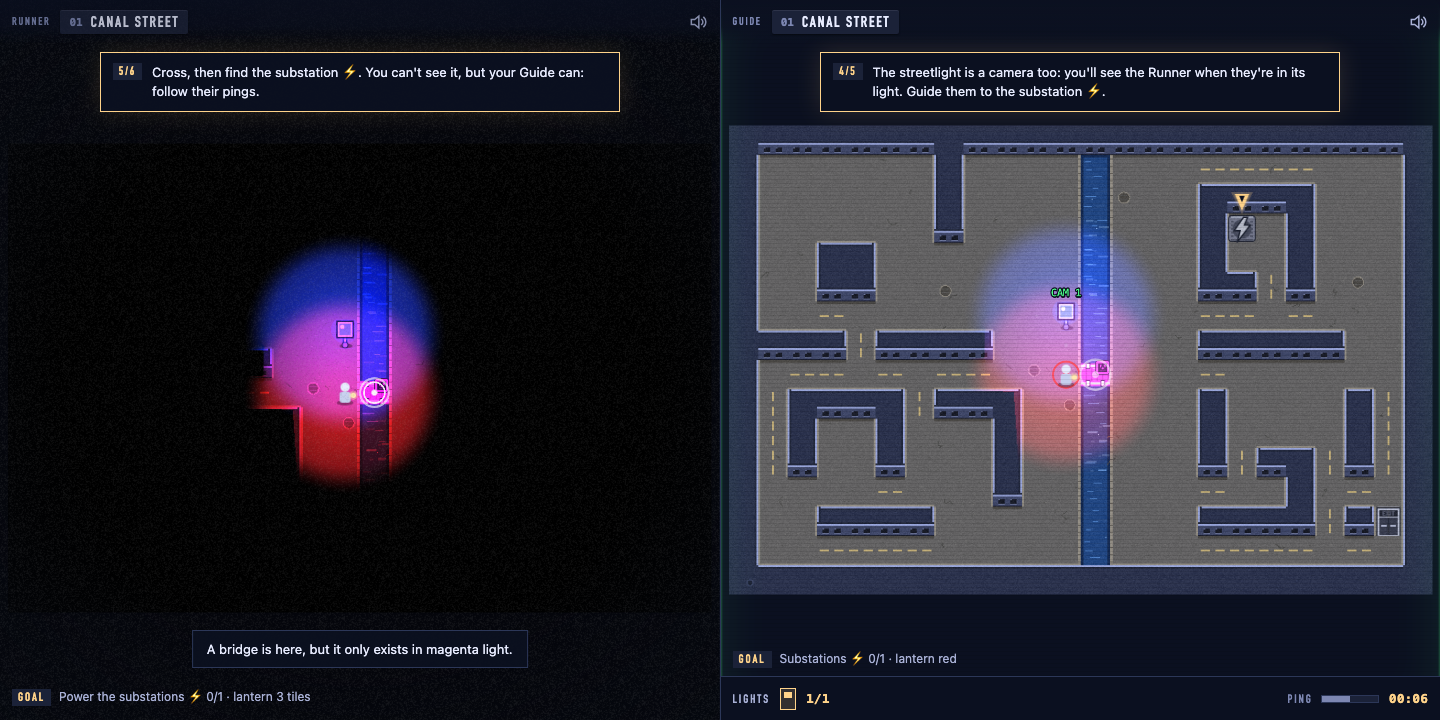
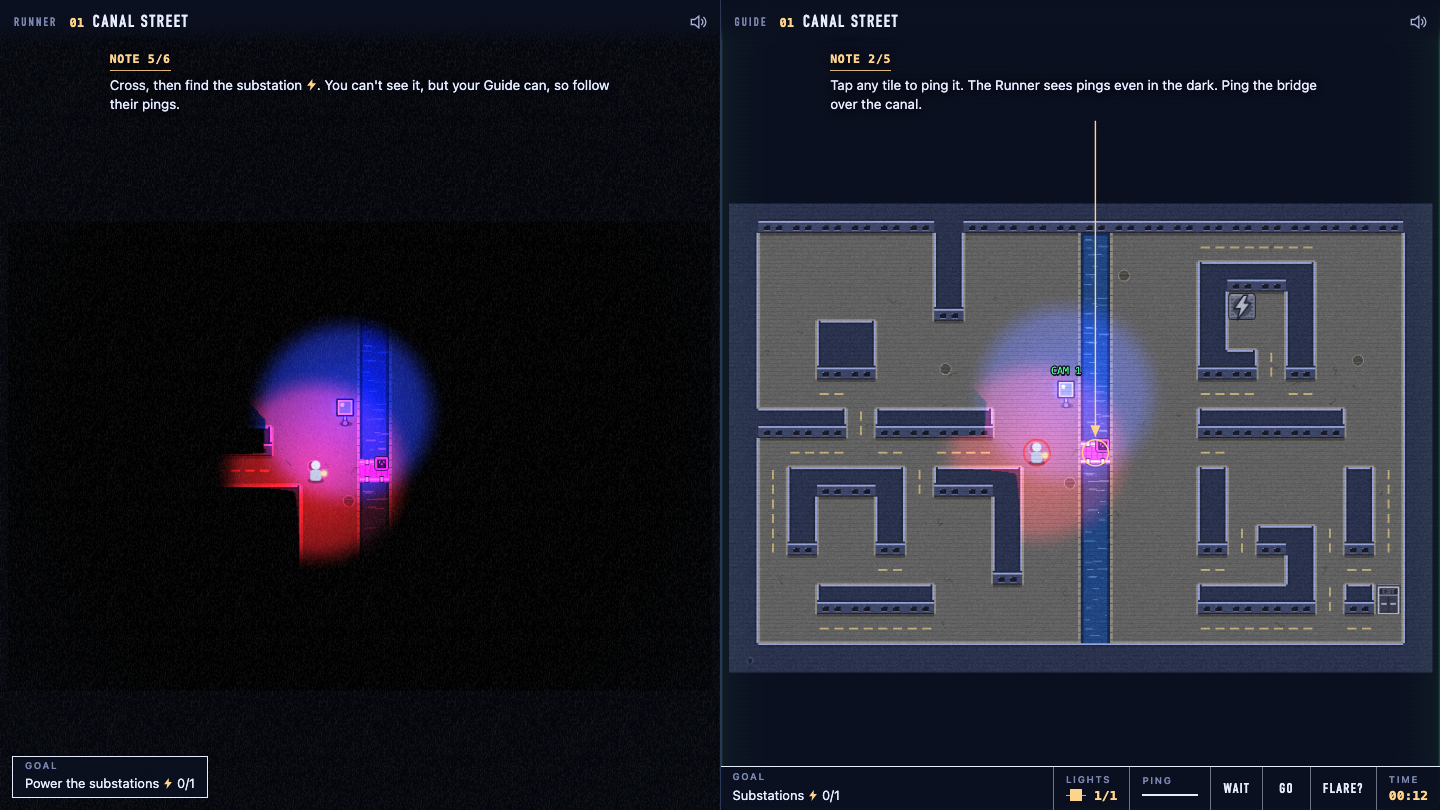
Document the Main Breaker, the signals and the new look
Assisted-By: Claude Opus 5.5

diff --git a/README.md b/README.md
@@ -27,7 +27,7 @@ Each substation the Runner reaches powers its block for good, moves the checkpoi
 
 ## The story
 
-The game opens in the field tech's dark bedroom with the phone ringing on the nightstand. Answer it, and dispatch apologises for the hour while the skyline in the window turns from white to red, green, and blue and goes out. After that, the story comes only from in-world records. Each district opens on a call from a resident who has noticed something strange, and closes on a line in the utility's log. When the last block comes back, the separated colors slide together into white across the city.
+The game opens in the field tech's dark bedroom with the phone ringing on the nightstand. Answer it, and dispatch apologises for the hour while the skyline in the window turns from white to red, green, and blue and goes out. After that, the story comes only from in-world records. Each district opens on a call from a resident who has noticed something strange, and closes on a line in the utility's log. After the last district, the main breaker won't stay closed. When the two players fix its rule, the separated colors slide together into white across the city.
 
 | District | The trick |
 |---|---|
@@ -36,6 +36,7 @@ The game opens in the field tech's dark bedroom with the phone ringing on the ni
 | 3 · Old Locks | only green streetlights, a long cyan bridge that needs two of them, and two glass colors to juggle |
 | 4 · Signal Yard | a red drone that no streetlight can show, so the Guide can only warn |
 | 5 · Grid Central | a yellow drone that only exists where the Runner's red meets a green streetlight, and a white door |
+| 6 · Main Breaker | the Guide rewrites the breaker's safety rule in CEL against three tests; only the Runner can read the gauges and turn the override key |
 
 ## How to play
 
@@ -52,6 +53,8 @@ No second device? Open [`?local=1`](https://overlap.richardsun.workers.dev/?loca
 | Ping | | tap any tile (2 s cooldown) |
 | Streetlight | | tap a streetlight to switch it (power budget shown as bars) |
 | Danger ping | | right-click a tile, or hold on a phone |
+| Signal | | Wait, Go and Flare? on the console, shown over the Runner's head |
+| Main Breaker | K turns the override key, Space pulls the lever | type the rule, then Install |
 
 District 1 is a tutorial. Each screen walks its player through their half of the game with numbered steps and a pointer over the tile to look at.
 
@@ -60,6 +63,12 @@ A drone touching the Runner sends them back to the last substation. If the Guide
 ## Theme
 
 "Visibility" is the mechanic itself, in both directions. The Runner sees only what light reaches. The Guide sees the city but sees the Runner only through light too, because every streetlight is a camera. Switching a streetlight on both reveals the street to the Runner and reveals the Runner to the Guide. What one player can see, the other can't, and progress needs both views combined. The closest prior art we know is *Hue* (2016), where objects vanish when they match the background color. In Overlap, two players each control one light color and mix them to reveal the level.
+
+## The look
+
+Every screen is drawn as a sheet of the city's wiring drawing. Tutorial steps are numbered notes with a leader line to the tile they mean, the goal and the Guide's console sit in title-block cells, the power budget is a row of breaker symbols, and the breaker room is a one-line diagram. The lit OVERLAP wordmark on the title is a sign that only shows where the two streetlights and your lantern fall.
+
+![Title sheet](docs/shots/title.png)
 
 ## How it's built
 
@@ -83,11 +92,12 @@ flowchart LR
 - **Server:** one Cloudflare Worker that serves the built client and routes `/room/CODE` to a SQLite-backed Durable Object per room. The Room does no game logic. It forwards messages to the other player and keeps the last snapshot, so a Guide who joins late (or reconnects) catches up.
 - **Two kinds of seeing, one function.** The gate logic, the solver, the Runner's view, and the Guide's cameras (`onCamera` in [`src/shared/level.ts`](src/shared/level.ts)) all read the same pure light field.
 - **Lighting is never sent over the wire.** Both clients compute the light field from shared state with the same pure function in [`src/shared/lighting.ts`](src/shared/lighting.ts). Messages go out only on change (a new tile, a toggled lamp, drones at most 5 times a second), which keeps a session well inside the Workers free plan.
+- **The Main Breaker runs on CEL.** The Guide's rule is a [CEL](https://cel.dev) expression evaluated by `@marcbachmann/cel-js` over four readings. It only returns true or false. The Runner's client runs the three safety tests again before the breaker closes, and [`tests/breaker.test.ts`](tests/breaker.test.ts) checks that the obvious fixes fail for the right reasons.
 - **Every district is proven solvable.** [`src/shared/level.ts`](src/shared/level.ts) has a breadth-first solver over (Runner tile, lights on, substations powered, lantern color) within the power budget. The tests check that each district can be solved, that it can't be solved without the Guide's lights, and that walling up any gate makes it unsolvable. The same solver drives a headless autoplayer ([`scripts/autoplay.mjs`](scripts/autoplay.mjs)) that plays the whole game in a real browser and waits out drones.
 
 ```
 src/shared/   protocol, color masks, light field, level format + solver
-src/scenes/   Runner, Guide, Ending
+src/scenes/   Runner, Guide, Intro (cold open), Breaker, Ending
 src/render/   procedural textures, visibility polygons, lightmap, post effects
 src/net/      Transport interface, WebSocket and in-memory (?local=1) transports
 src/audio/    procedural WebAudio

diff --git a/docs/WRITEUP.md b/docs/WRITEUP.md
@@ -5,7 +5,7 @@
 - **Play:** https://overlap.richardsun.workers.dev
 - Two computers play best: one presses **Play as Runner** and sends the link (or the 4-letter code) to the other, who joins as the Guide. A phone can join by QR code, and a second browser tab works too.
 - One screen: https://overlap.richardsun.workers.dev/?local=1 shows both roles side by side.
-- Runner: arrows / WASD, or tap a tile; Space flares. Guide: tap a tile to ping, tap a streetlight to switch it.
+- Runner: arrows / WASD, or tap a tile; Space flares. Guide: tap a tile to ping, tap a streetlight to switch it, and use the Wait, Go and Flare? buttons to signal without talking.
 - District 1 is a tutorial that walks each player through their role.
 - Source: https://github.com/RichardJSun/overlap
 
@@ -19,7 +19,7 @@ A city is in a blackout. The **Runner** walks pitch-black streets with a lantern
 
 Light colors add. Red lantern + blue streetlight makes magenta, and the first canal bridge exists only in magenta light. Red + green makes yellow, which opens locked doors. Colored glass on the street changes the lantern's color, and in every district the glass brings colors that no streetlight has, so the two players have to combine what each of them holds. Drones show up only in their own color. One is red in a district with no red streetlights, so the Guide can only shout. Another is yellow and only appears where the Runner's red light meets a green streetlight. The last door in the city opens only in white light, which takes the lantern and two streetlights on one tile.
 
-Each substation the Runner reaches powers its block for good, moves the checkpoint, gives the Guide more power, and lets the lantern reach a tile farther. There are five districts. When the last one is lit, the separated colors slide back together into white and both screens show the same view for the first time.
+Each substation the Runner reaches powers its block for good, moves the checkpoint, gives the Guide more power, and lets the lantern reach a tile farther. There are five districts and one last room. At the main breaker, somebody has flipped the safety rule, so the Guide rewrites it as a small CEL expression against three safety tests. Only the Runner can read the live gauges, and the restart surge trips any rule that the tests alone would pass, so the two players have to talk it through. When the breaker holds, the separated colors slide back together into white and both screens show the same view for the first time.
 
 The story is told without a narrator. The game opens on the field tech asleep, with dispatch calling. After that, each district opens on a resident's call about something strange they've seen, and closes on a line in the utility's log.
 
@@ -31,12 +31,15 @@ Every color has a shape too (red triangle, green circle, blue square), so the ga
 - One Cloudflare Worker serves the client and routes `/room/CODE` to a Durable Object per room. The Room only relays messages and stores the last snapshot for late joiners.
 - Both clients run the same pure light-field function, so lighting never goes over the network. Only changes are sent.
 - A breadth-first solver proves every district is solvable within the power budget, that none can be solved without the Guide, and that every gate is needed. The same solver drives a headless autoplayer that plays the whole game in a real browser.
+- The breaker rule is a CEL expression evaluated by `@marcbachmann/cel-js`. It only returns true or false, and the Runner's client runs the safety tests again before the breaker closes.
+- The UI is drawn as a sheet of the city's wiring drawing: numbered notes with leader lines, title-block cells, breaker symbols, and a one-line diagram for the breaker room. We picked it from four HTML mockups with the impeccable design workflow, after the first UI looked like a generic dark dashboard.
 - The game was built by AI coding agents (Claude Code) directed by Richard Sun. A main session owned the shared contracts. Parallel agents in separate git worktrees built the network layer, audio, districts, art, and UI. The devlog and prompts are in the repo.
 
 ## Challenges
 
 - **Keeping two screens honest.** The gate logic, the solver, and the renderer had to agree on exactly which tiles are lit. We made one pure function the source of truth for logic, and used the raycast polygons only for looks.
 - **Colored light that reads.** Multiplying a lightmap over dark tiles turns red light into mud. We store the tiles brighter than the palette and let the lightmap darken them, then add a soft additive bloom so mixed colors pop.
+- **A logic puzzle that needs both players.** With the safety tests on screen, the Guide could solve the breaker alone. The live surge, which only the Runner sees, is what makes the first passing rule trip, so the Runner has to read the gauges out.
 - **Testing a game no one could watch.** The in-app browser pauses animation when hidden, which looked like broken input. Headless Playwright became the source of truth: a scripted district 1 run, a two-tab network test, and a solver-driven full playthrough.
 
 ## Accomplishments
@@ -55,5 +58,5 @@ Designing around information asymmetry is mostly about what each player *can't* 
 
 ## What's next
 
-- A bonus "substation repair" district where the Guide fixes a broken logic rule.
+- Direction arrows for the Guide's signals.
 - A spectator view for showcases, and more districts.

diff --git a/docs/DEVLOG.md b/docs/DEVLOG.md
@@ -123,3 +123,26 @@ Richard's notes, also done:
 - **Demo video, take 3:** 2:33 with the cold open, the tutorial, all five districts, and the white-light ending, with the game's own synthesized sound re-rendered offline.
 
 ![District 5](shots/d5-sub2.png)
+
+## 15:45 Polish, and the lantern readout goes
+- Richard asked whether the Runner needed the lantern's tile count at the bottom of the screen. It didn't, so the goal line now names only the substations or the exit. District 2 has one name everywhere ("Market Street"), and the tutorial and tips no longer hinge on colons.
+- The Guide's goal line also stopped showing the lantern color. The Guide learns it from the camera, when the Runner's light pool is in view, or by asking.
+
+## 16:00 The Main Breaker
+- A sixth room after Grid Central. The main breaker keeps tripping because somebody flipped its safety rule to `load > capacity`. The Guide edits the rule, a CEL expression evaluated by `@marcbachmann/cel-js`, and watches three safety tests pass or fail while they type. Only the Runner can see the live gauges, and the restart surge has pushed the load to 104 MW against a 100 MW capacity.
+- The first rule that passes the tests, `line_clear && load < capacity`, still trips. The Runner has to read the gauges out and turn the override key, and the Guide has to add the key without breaking the "crew on the line" test. `line_clear && load < capacity || override` fails that test because of operator precedence, so the working rule needs parentheses.
+- The Runner's client runs the tests again before it lets the breaker close, so a Guide can't install `true`. CEL only returns a boolean, and the game owns every side effect.
+- A Guide who joins late or reloads goes straight to the breaker. Scenes that have stopped now ignore network messages. Autoplay and the two-browser network check both play the breaker.
+
+![Main Breaker](shots/breaker.png)
+
+## 16:40 The city's wiring drawing
+- Richard said the UI looked like slop. Every label sat in a small chip or a 1px box, the generic dark-dashboard look. We ran the impeccable design workflow: a concept roll, four HTML mockups laid over a real game screenshot, and Richard's pick. He liked the carbon-copy work order but not bright paper on a dark game, so we built the one-line schematic sheet.
+- Every screen is now a sheet of the city's wiring drawing. The title has a drawing border, a bus diagram whose three lamps are the lights that reveal the wordmark, numbered general notes, and a title block that holds Play and Join. Tutorial steps are numbered notes with a leader line that ends on the tile they mean. Toasts sit under a dimension line. The goal and the Guide's console are title-block cells, and the power budget is a row of breaker symbols. The breaker room is a one-line diagram with a switch blade that swings shut and a load needle with mass. The credits are the drawing's last revision.
+- The lit OVERLAP wordmark is the one thing that stayed, at Richard's request.
+
+![Title sheet](shots/title.png)
+
+## 17:10 Signals without voice
+- The Guide's console has Wait, Go, and Flare? buttons. Each one shows as a callout over the Runner's head for two seconds, readable in the dark. Flare? also tells the Runner how to flare. The Guide's tutorial teaches Flare? in its first step and Wait and Go in its last.
+- On a phone the console wraps to two rows, and the map moves up to stay clear of it.
